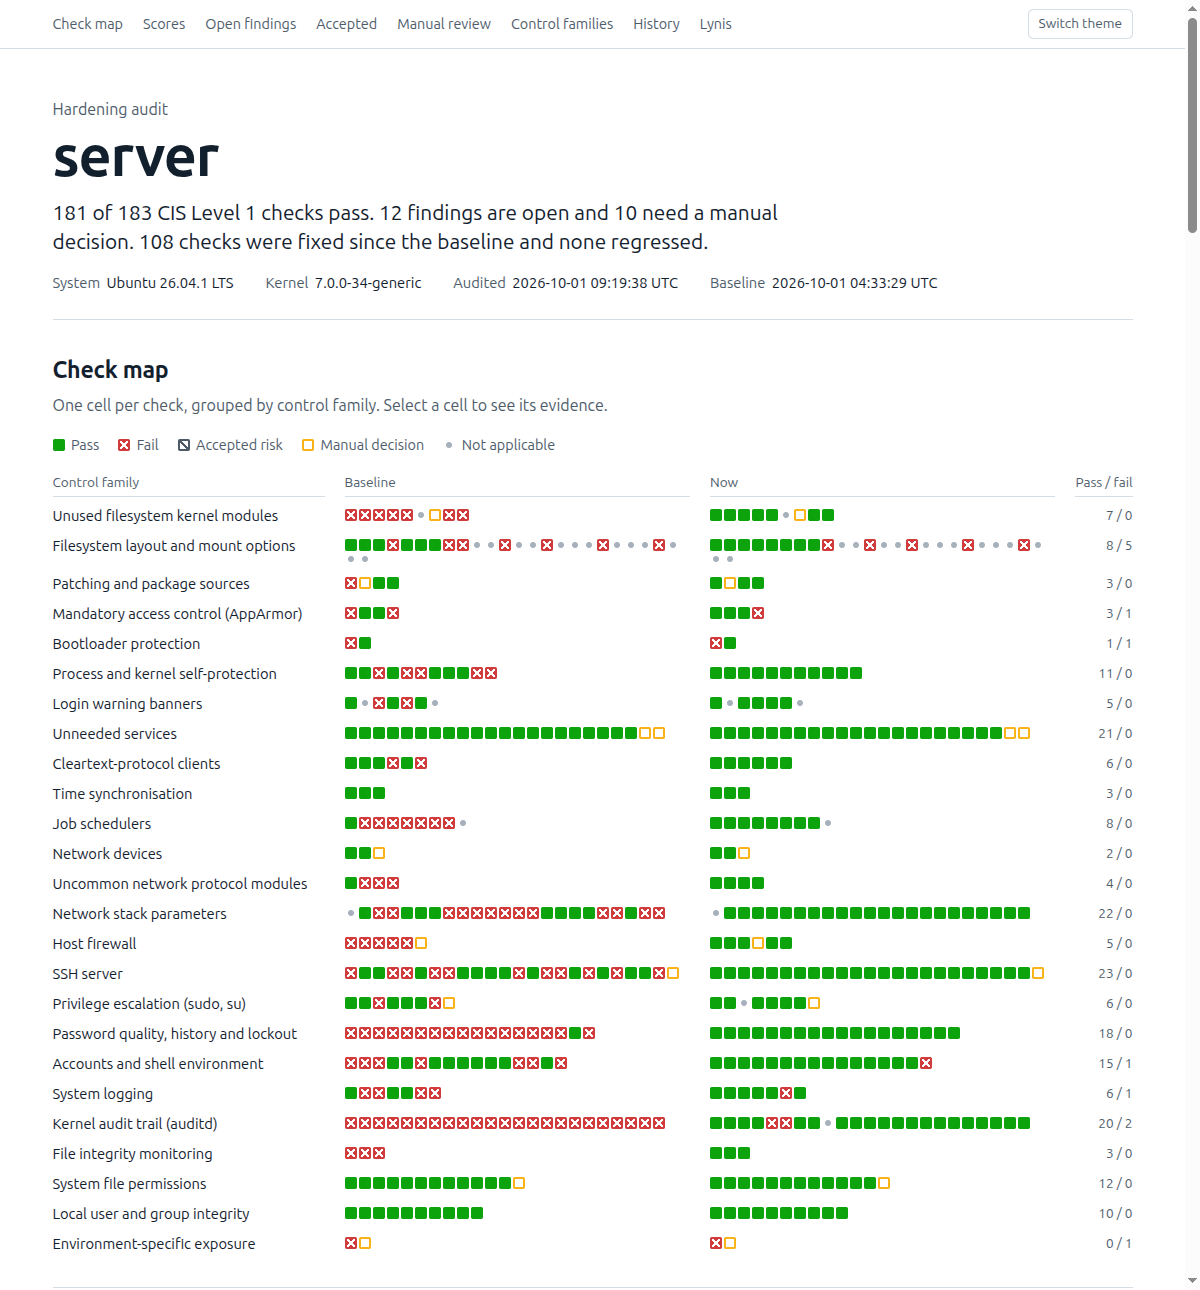
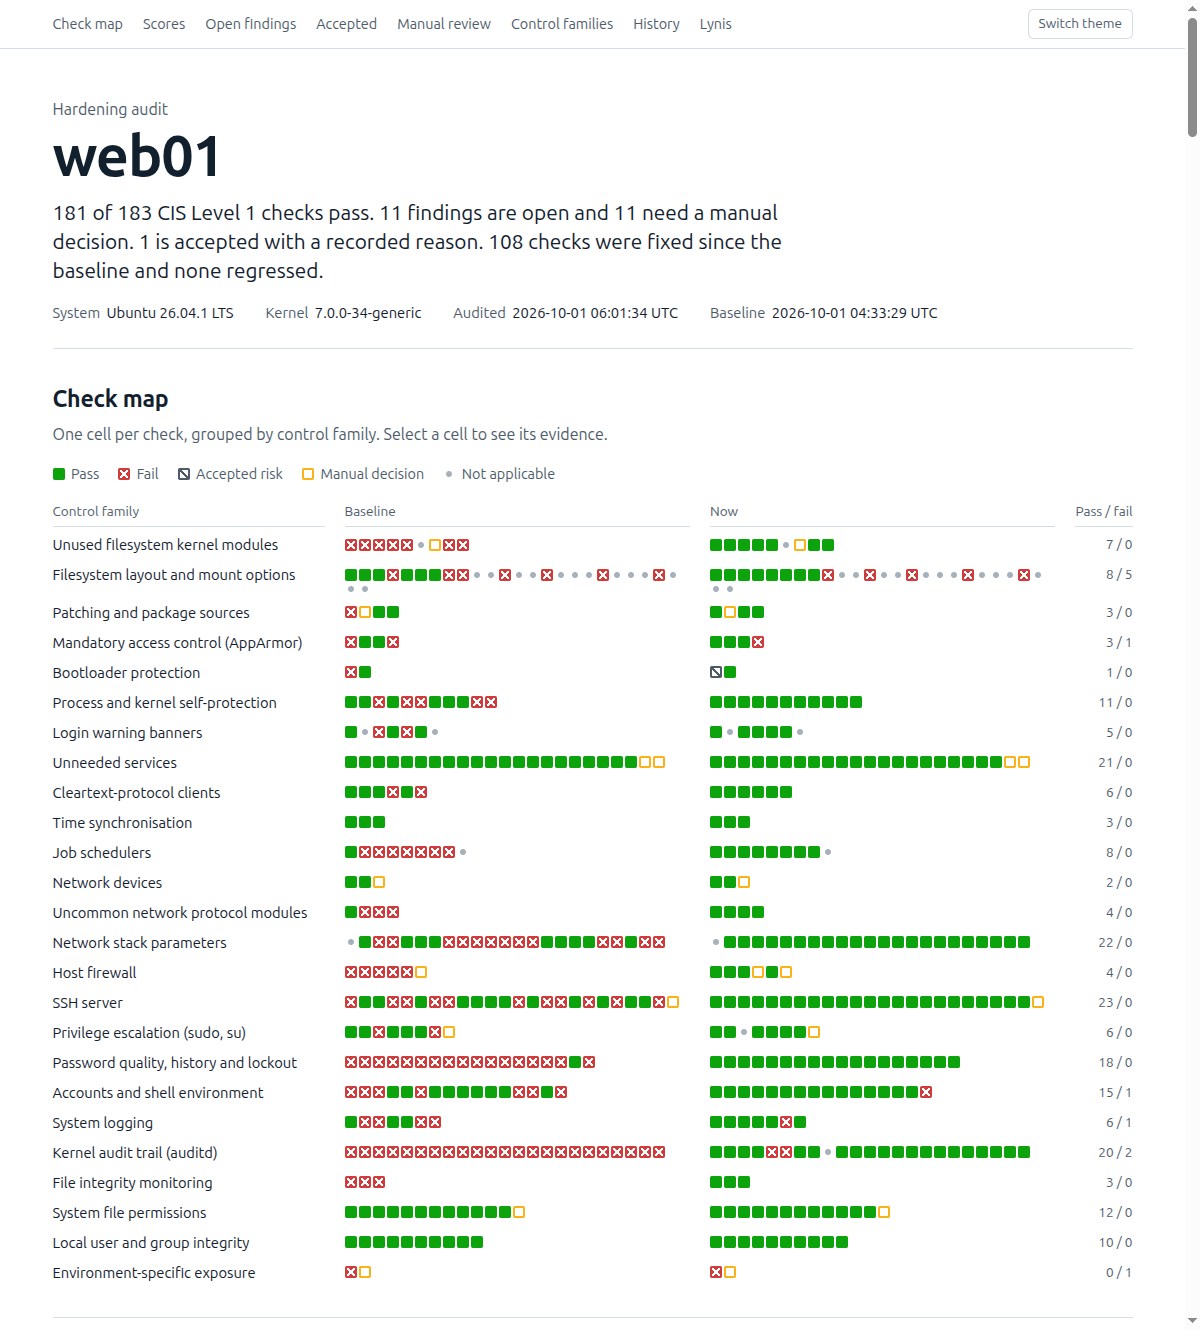
Docs: refresh the report screenshot and add one of the findings tables
Both are taken from a report built on the test fixture (host web01).

Claude-Session: https://claude.ai/code/session_01WVVmPT3msENS62HwHkZone

diff --git a/README.md b/README.md
@@ -416,6 +416,9 @@ light and dark.
 - **Scores** per CIS level, with the Lynis hardening index (or "not run" when Lynis was skipped).
 - **Open findings, accepted risks and manual-review items**, each with its CIS section and
   level, linked to its control family.
+
+  ![Open findings with their CIS section and level, and an accepted risk with its owner and expiry](docs/img/report-findings.png)
+
 - **Control families.** Every check with its evidence, next to what the control changes, why,
   its impact, and how to verify and undo it. Filter by text or status.
 - **History.** The Level 1 score at every audit of the host, and what regressed or was fixed

diff --git a/CHANGELOG.md b/CHANGELOG.md
@@ -7,6 +7,7 @@ its own version, recorded in every result file.
 
 - Documentation: `hardening_audit_lynis` is listed with the other settings and in the example
   overrides file.
+- README screenshots show the current report, including the CIS column.
 
 ## 1.0.2 - 2026-10-05
 
